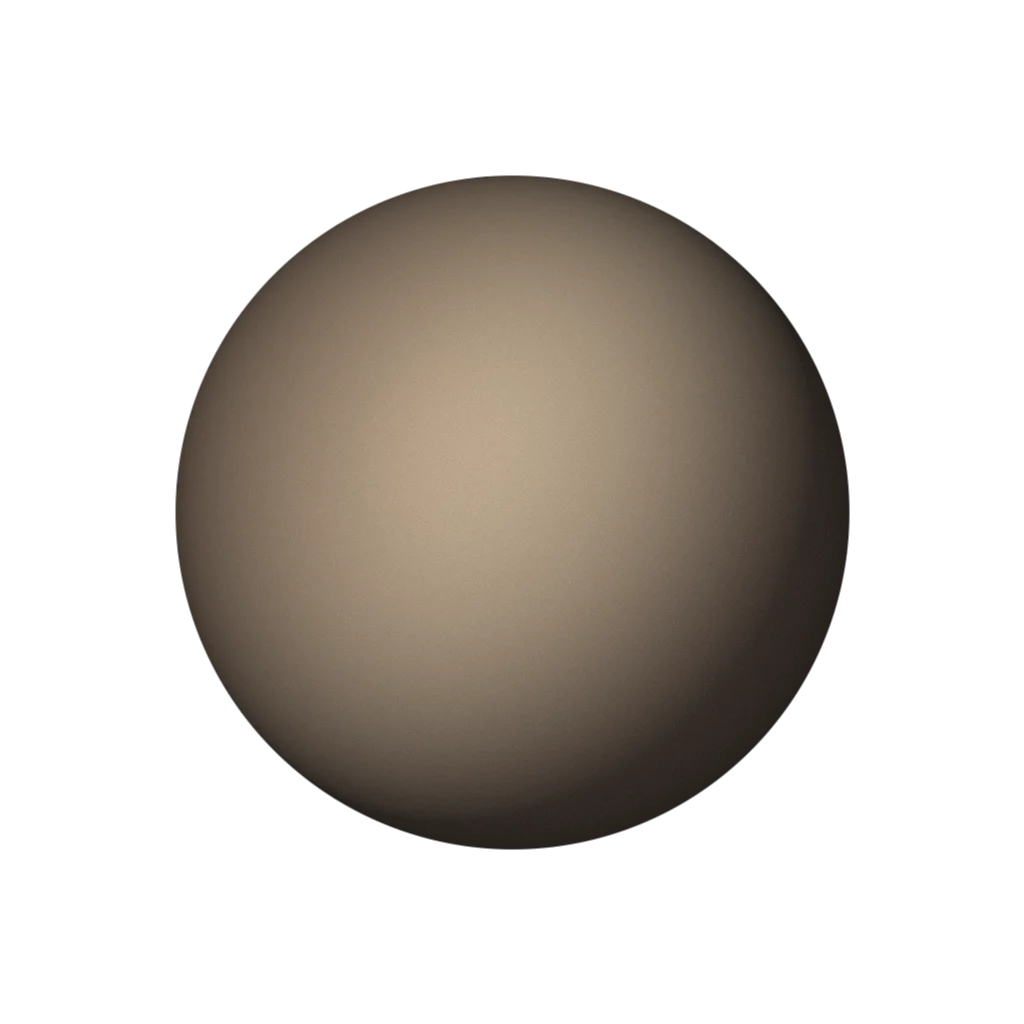
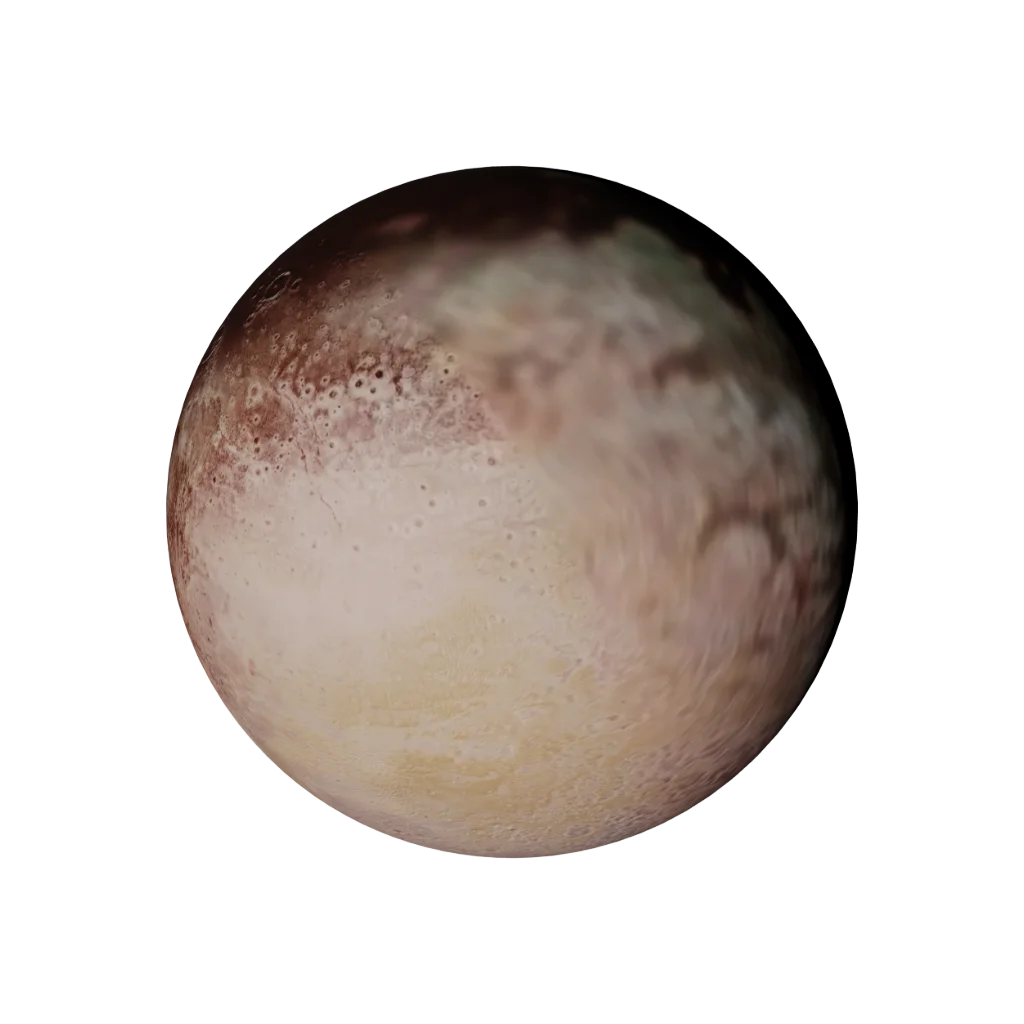
Pluto becomes a real body: NASA New Horizons map, mesh, sprite retired
A clearly licensed public map exists, so the placeholder goes.

Texture: NASA/JHUAPL/SwRI "Pluto Global Color Map" (2017-01-19), the MVIC
colour mosaic from the 2015 flyby, pulled from assets.science.nasa.gov and
resized only (LANCZOS) to the same 2048/1024/512 tiers the other worlds ship.
Provenance and licence in website/assets/textures/pluto-source.txt. Pluto's
southern hemisphere was in winter darkness during the flyby and is black in the
NASA product; that black is real missing data and is not painted in.

- EXTRA_BODIES renders a lit sphere on the same planet sun-lighting shader as
  the majors. The additive point sprite is REMOVED, not layered underneath, so
  there is no double draw.
- Pole from IAU/WGCCRE J2000 (a0 132.993, d0 -6.163) through the same transform
  as the existing rows, which reproduces six of the seven shipped poles to five
  decimals. The pole sits below the ecliptic, which is Pluto's ~120 deg
  obliquity. wdot is the real IAU rate; w0eng is left at 0 and declared
  illustrative because the engine phase origin is not the IAU prime meridian and
  no conversion was verified.
- Dwarf bodies get their own sun-direction feed (updatePlanetSunLighting returns
  above scaleLevel 2) and ride the same canonical spin clock.
- Portraits can now frame a dwarf planet, so img/engine/pluto.webp is a genuine
  engine capture instead of the procedurally generated disc it used to be. The
  makePlutoStill generator is deleted.
[…]

Changed region(s): [[0.1562, 0.1562, 0.8438, 0.8438]]

diff --git a/website/js/orrery-webgl.js b/website/js/orrery-webgl.js
@@ -690,13 +690,17 @@ const FinishShader = {
   // Neptune with a faint orbit ring, tier-gated (high/mid only, off on low/phones).
   // Honest: schematic radius, TRUE heliocentric position. (Chiron was considered but its
   // ephemeris is a bare geocentric mean longitude — not scene-placeable — so it's skipped.)
+  // v869: Pluto is a real textured sphere, not a point sprite. The map is the NASA
+  // New Horizons MVIC global colour mosaic (see assets/textures/pluto-source.txt);
+  // its unobserved southern third is black in the NASA product and stays that way.
+  // siderealPeriodHours is Pluto's real retrograde rotation (-153.2928 h).
   const EXTRA_BODIES = [
-    { id: 'pluto', name: 'Pluto', R: 32.5, size: 0.28, color: 0xbfa98c, minTier: 'mid' },
+    { id: 'pluto', name: 'Pluto', R: 32.5, size: 0.28, color: 0xbfa98c, minTier: 'mid', tex: 'pluto.jpg' },
   ];
 
   // Extra bodies (Pluto) + motion trails (time-scrub)
   let extraBodiesGroup = null;      // holds the dwarf-planet points + their orbit rings
-  const extraMeshes = {};           // id → { dot, ring, label }
+  const extraMeshes = {};           // id → { dot (pole group), mat, mesh, ring, label, b }
   const ghostMeshes = {};           // id → dim live-now sphere (not a second clock)
   let ghostTodayJd = 0;
   let lastGhostSampleMs = 0;
@@ -6351,6 +6355,22 @@ const FinishShader = {
     }
   }
 
+  // Dwarf planets sit beyond the scaleLevel 2 cut that updatePlanetSunLighting()
+  // returns on, so their lit hemisphere is driven separately — otherwise Pluto's
+  // shader would hold whatever sun direction it was compiled with.
+  function updateExtraBodySunLighting() {
+    if (!sunMesh || !extraBodiesGroup || !extraBodiesGroup.visible) return;
+    EXTRA_BODIES.forEach((b) => {
+      const em = extraMeshes[b.id];
+      if (!em || !em.dot || !em.mat) return;
+      _toSun.copy(sunMesh.position).sub(em.dot.position);
+      if (_toSun.lengthSq() < 1e-6) _toSun.set(1, 0, 0);
+      else _toSun.normalize();
+      const shader = em.mat.userData && em.mat.userData.planetShader;
+      if (shader && shader.uniforms.uSunDir) shader.uniforms.uSunDir.value.copy(_toSun);
+    });
+  }
+
   function setOrbitLineOpacity(o, mult) {
     if (!o || !o.material) return;
     const base = o.userData.baseOpacity || 0.3;
@@ -6667,27 +6687,42 @@ const FinishShader = {
     buildTrails();
   }
 
-  // Small dwarf-planet points (Pluto) + faint orbit ring. Tier-gated: skipped entirely on
+  // Dwarf planets (Pluto) + faint orbit ring. Tier-gated: skipped entirely on
   // low tier (phones stay light). Position is set each frame in updatePositions().
+  //
+  // v869: this was an additive point sprite standing in for a body with no map.
+  // A real public-domain NASA map now ships, so the body is a real lit sphere on
+  // the same planet lighting shader as the majors. The sprite is GONE rather than
+  // kept underneath — two draws for one world would double-light the disc.
   function buildExtraBodies() {
     if (extraBodiesGroup || perfTier === 'low' || IS_PHONE) return; // v627 — Pluto off on phones (fill-rate)
     extraBodiesGroup = new THREE.Group();
     extraBodiesGroup.visible = false;
     EXTRA_BODIES.forEach((b) => {
       if (b.minTier === 'high' && perfTier !== 'high') return;
-      // dot — a soft additive point sprite (cheap, reads at System/Oort scale)
-      const c = document.createElement('canvas'); c.width = c.height = 64;
-      const g = c.getContext('2d');
-      const grad = g.createRadialGradient(32, 32, 0, 32, 32, 32);
-      const hex = '#' + b.color.toString(16).padStart(6, '0');
-      grad.addColorStop(0, hex);
-      grad.addColorStop(0.4, hex);
-      grad.addColorStop(1, 'rgba(0,0,0,0)');
-      g.fillStyle = grad; g.beginPath(); g.arc(32, 32, 32, 0, Math.PI * 2); g.fill();
-      const tex = new THREE.CanvasTexture(c); tex.colorSpace = THREE.SRGBColorSpace;
-      const dot = new THREE.Sprite(new THREE.SpriteMaterial({ map: tex, transparent: true, depthWrite: false, opacity: 0.92 }));
-      dot.scale.setScalar(b.size * 2.4);
+      const vis = PLANET_VIS[b.id] || { roughness: 0.92, metalness: 0 };
+      const mat = new THREE.MeshPhysicalMaterial({
+        color: b.color, roughness: vis.roughness, metalness: vis.metalness,
+        clearcoat: 0, emissive: 0x000000, envMapIntensity: 0.16,
+      });
+      mat.onBeforeCompile = (shader) => {
+        try {
+          injectPlanetSunLighting(shader, vis.rim || b.color, 0.05);
+          mat.userData.planetShader = shader;
+        } catch (e) { console.warn('[orrery] dwarf lighting patch skipped', e); }
+      };
+      mat.customProgramCacheKey = () => 'planet-sun-v2';
+      // Same two-level frame as the majors: the group carries the IAU pole, the
+      // inner sphere carries the spin phase, so one never contaminates the other.
+      const bodySegs = sphereSegs(false);
+      const sphere = new THREE.Mesh(new THREE.SphereGeometry(b.size, bodySegs, bodySegs), mat);
+      const dot = new THREE.Group();
+      const rmS1 = ROTATION_MODEL[b.id];
+      if (rmS1) poleQuaternion(rmS1.poleScene, dot.quaternion);
+      dot.add(sphere);
+      dot.userData = { b, mat, mesh: sphere };
       extraBodiesGroup.add(dot);
+      loadTex(b.tex).then((t) => { if (t) { mat.map = t; mat.color.set(0xffffff); mat.needsUpdate = true; } });
       // faint engraved orbit ring (non-hero styling)
       const rw = 0.02, inner = Math.max(0.01, b.R - rw * 0.5), outer = b.R + rw * 0.5;
       const segs = perfTier === 'high' ? 192 : 128;
@@ -6698,7 +6733,7 @@ const FinishShader = {
       extraBodiesGroup.add(ring);
       const label = makeLabel(b.name); label.visible = false;
       extraBodiesGroup.add(label);
-      extraMeshes[b.id] = { dot, ring, label, b };
+      extraMeshes[b.id] = { dot, mat, ring, label, b };
     });
     scene.add(extraBodiesGroup);
   }
@@ -7713,6 +7748,7 @@ const FinishShader = {
     if (earthAtmoMat) earthAtmoMat.uniforms.uCamPos.value.copy(camera.position);
     if (earthAtmoMatOuter) earthAtmoMatOuter.uniforms.uCamPos.value.copy(camera.position);
     updatePlanetSunLighting();
+    updateExtraBodySunLighting();
     if (scaleLevel <= 2 && orbitLines.length) {
       orbitLines.forEach((o) => {
         if (o.material && o.material.uniforms && o.material.uniforms.uTime) {
@@ -7861,6 +7897,16 @@ const FinishShader = {
           g.userData.mesh.rotation.y = rotationPhaseRad(b.id, jdSpin) + (spinOffset[b.id] || 0);
         }
       });
+      // Dwarf planets ride the same canonical clock. They are not in BODIES, so
+      // they get no scroll-spin absorber — nothing feeds them a spinOffset.
+      if (extraBodiesGroup && extraBodiesGroup.visible) {
+        EXTRA_BODIES.forEach((b) => {
+          const em = extraMeshes[b.id];
+          if (em && em.dot && em.dot.userData.mesh) {
+            em.dot.userData.mesh.rotation.y = rotationPhaseRad(b.id, jdSpin);
+          }
+        });
+      }
       earthUniforms.uCloudSpin.value = ((CLOUD_DRIFT_RAD_PER_DAY * (jdSpin - 2451545.0)) / (2 * Math.PI))
         + ((spinOffset.cloud || 0) + (spinOffset.earth || 0)) / (2 * Math.PI);
       if (moonMesh && moonGroup && moonGroup.userData.lonDeg != null) {
@@ -9238,15 +9284,29 @@ const FinishShader = {
   const _portUp = new THREE.Vector3(0, 1, 0);
   const _portOff = new THREE.Vector3();
 
+  // Portraits frame either a major body (meshes) or a dwarf planet (extraMeshes).
+  // Both carry userData { b, mesh }, so the framing and lighting maths is shared.
+  function portraitBodyGroup(pid) {
+    if (meshes[pid]) return meshes[pid];
+    const em = extraMeshes[pid];
+    return (em && em.dot) || null;
+  }
+  function isExtraBodyId(pid) { return !!(extraMeshes[pid] && extraMeshes[pid].dot); }
+
   // Scene-level groups a portrait must not include. Returned as a list so the same
   // set is snapshotted on enter and restored on exit — no guessing which of them
   // updateScaleVisuals() happens to re-show.
   function portraitExtraGroups() {
-    return [
+    const list = [
       extraBodiesGroup, trailsGroup, aspectGroup, aspectHelioGroup,
       natalClockGroup, earthOrbitGroup, galaxyGroup, milkyWayGroup,
       instrumentCosmicVeil, preloaderComets,
     ].concat(eccentricGuides || []);
+    Object.keys(extraMeshes).forEach((id) => {
+      const em = extraMeshes[id];
+      if (em) list.push(em.dot, em.ring, em.label);
+    });
+    return list;
   }
 
   // Hide every object that is not the framed body (+ its own rings/atmosphere/clouds).
@@ -9289,6 +9349,18 @@ const FinishShader = {
     // that have to composite as alpha-0. Visibility is snapshotted in enterPortrait
     // and restored verbatim in exitPortrait, so this stays reversible.
     portraitExtraGroups().forEach((g) => { if (g) g.visible = false; });
+    // A dwarf-planet portrait needs its own group back — but only the body, never
+    // the orbit ring or the label, and never a second dwarf sharing the frame.
+    if (isExtraBodyId(portraitId) && extraBodiesGroup) {
+      extraBodiesGroup.visible = true;
+      Object.keys(extraMeshes).forEach((id) => {
+        const em = extraMeshes[id];
+        if (!em) return;
+        if (em.dot) em.dot.visible = id === portraitId;
+        if (em.ring) em.ring.visible = false;
+        if (em.label) em.label.visible = false;
+      });
+    }
     // Labels (canvas sprites) — DOM labels handled via updateDomLabels(0)
     Object.keys(labels).forEach((k) => { if (labels[k]) labels[k].visible = false; });
     // Deep-space / starfield / galaxy layers
@@ -9336,7 +9408,7 @@ const FinishShader = {
   function applyPortraitSunLighting() {
     const ids = portraitId === 'earthmoon' ? ['earth'] : [portraitId];
     ids.forEach((pid) => {
-      const g = meshes[pid];
+      const g = portraitBodyGroup(pid);
       if (!g) return;
       // Sun sits at the scene origin; lit hemisphere faces the origin.
       _portToSun.copy(g.position).multiplyScalar(-1);
@@ -9379,7 +9451,7 @@ const FinishShader = {
       }
       pid = 'earth';
     }
-    const g = meshes[pid];
+    const g = portraitBodyGroup(pid);
     if (!g) return;
     const body = g.userData.b;
     _portTarget.copy(g.position);
@@ -9472,7 +9544,7 @@ const FinishShader = {
   // silhouette with only a rim sliver — the exact lit-face bug.
   function applyPortraitLighting() {
     const pid = portraitId === 'earthmoon' ? 'earth' : portraitId;
-    const g = meshes[pid];
+    const g = portraitBodyGroup(pid);
     if (!g) return;
     // Sun sits at the scene origin; keep the sun mesh + point light there.
     if (sunMesh) sunMesh.position.set(0, 0, 0);

diff --git a/website/js/orbitlab-bodies.js b/website/js/orbitlab-bodies.js
@@ -61,6 +61,17 @@ export const ROTATION_MODEL = {
   saturn:  { poleScene: [ 0.08548, 0.88252, -0.46244], w0eng: 178.934, wdot: 810.7939024,   texOffsetDeg: 0 },
   uranus:  { poleScene: [-0.21200, 0.13436,  0.96799], w0eng:  28.869, wdot: -501.1600928,  texOffsetDeg: 0 },
   neptune: { poleScene: [ 0.35588, 0.88273,  0.30681], w0eng:  48.657, wdot: 536.3128492,   texOffsetDeg: 0 },
+  // Pluto (v869, added with the New Horizons map). Pole from IAU/WGCCRE J2000
+  // a0 = 132.993 deg, d0 = -6.163 deg, run through the same equatorial -> ecliptic
+  // -> scene transform as the rows above (that transform reproduces mercury,
+  // venus, jupiter, saturn, uranus and neptune here to 5 decimal places). The
+  // pole sits BELOW the ecliptic, which is Pluto's ~120 deg obliquity — the
+  // retrograde spin is in the geometry, not a sign hack. wdot is the real IAU
+  // rate. w0eng is NOT calibrated: the engine phase origin is the node
+  // pole x y_hat, not the IAU prime meridian, and no derivation was verified for
+  // Pluto, so the phase is declared illustrative rather than dressed up with the
+  // IAU W0 of 302.695 as if it had been converted.
+  pluto:   { poleScene: [-0.67797, -0.38777, -0.62450], w0eng:   0,     wdot:  56.3625225,  texOffsetDeg: 0 },
 };
 
 /** Moon equirectangular map centering: standard maps are near-side-centered → 0.
